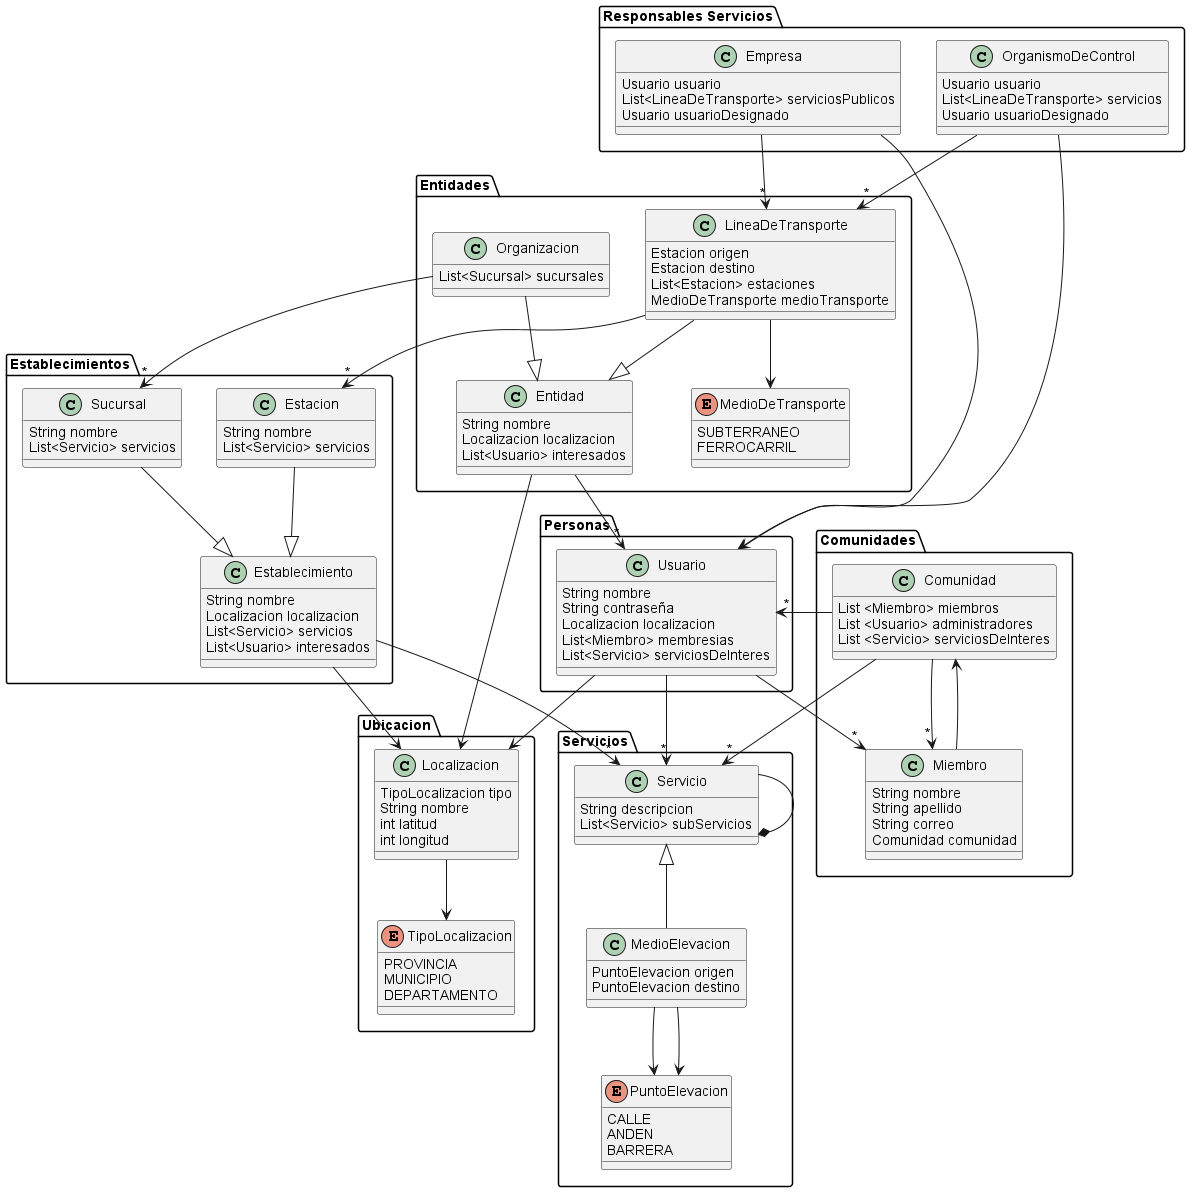
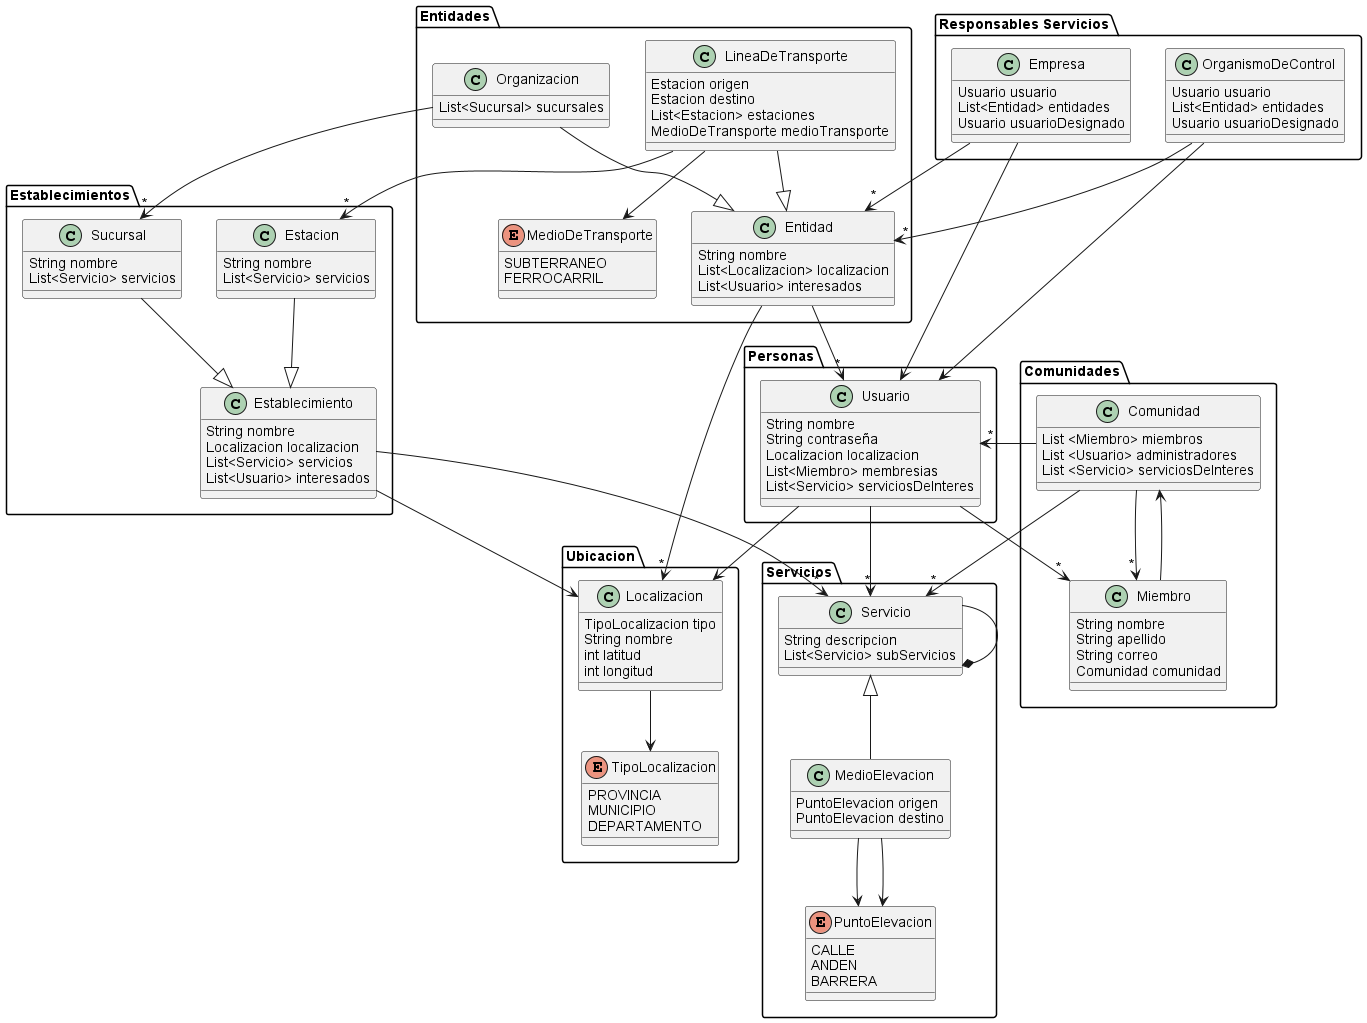
Mas correcciones

diff --git a/src/main/java/OrganismoDeControl.java b/src/main/java/OrganismoDeControl.java
@@ -1,4 +1,5 @@
 import Comunidades.Usuario;
+import Entidades.Entidad;
 import Entidades.LineaDeTransporte;
 import Servicios.Servicio;
 
@@ -7,12 +8,12 @@ import java.util.List;
 public class OrganismoDeControl {
   String nombre;
   Usuario usuario;
-  List<LineaDeTransporte> servicios;
+  List<Entidad> entidades;
   Usuario usuarioDesignado;
 
-  public OrganismoDeControl(Usuario usuario, List<LineaDeTransporte> servicios, Usuario usuarioDesignado) {
+  public OrganismoDeControl(Usuario usuario, List<Entidad> entidades, Usuario usuarioDesignado) {
     this.usuario = usuario;
-    this.servicios = servicios;
+    this.entidades = entidades;
     this.usuarioDesignado = usuarioDesignado;
   }
 }

diff --git a/src/main/java/Empresa.java b/src/main/java/Empresa.java
@@ -1,4 +1,5 @@
 import Comunidades.Usuario;
+import Entidades.Entidad;
 import Entidades.LineaDeTransporte;
 
 import java.util.List;
@@ -6,12 +7,12 @@ import java.util.List;
 public class Empresa {
   String nombre;
   Usuario usuario;
-  List<LineaDeTransporte> serviciosPublicos;
+  List<Entidad> entidades;
   Usuario usuarioDesginado;
 
-  public Empresa(Usuario usuario, List<LineaDeTransporte> serviciosPublicos, Usuario usuarioDesginado) {
+  public Empresa(Usuario usuario, List<Entidad> entidades, Usuario usuarioDesginado) {
     this.usuario = usuario;
-    this.serviciosPublicos = serviciosPublicos;
+    this.entidades = entidades;
     this.usuarioDesginado = usuarioDesginado;
   }
 }
